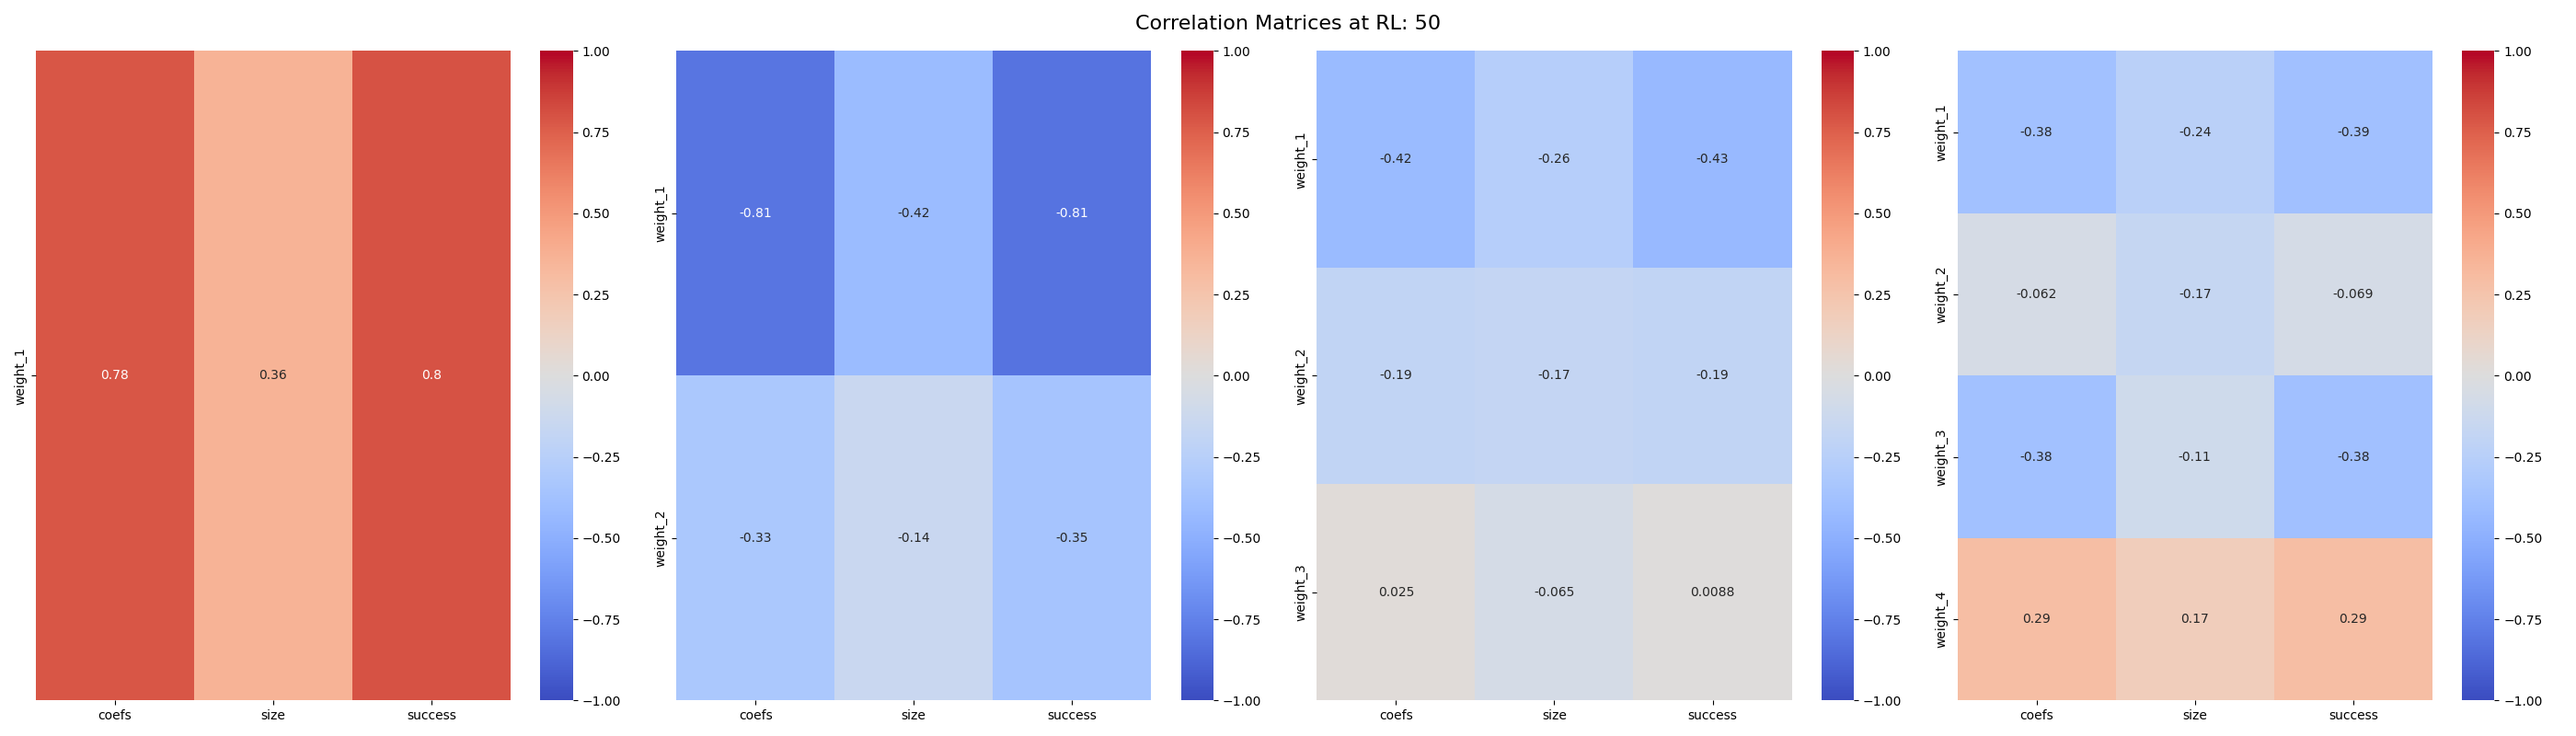
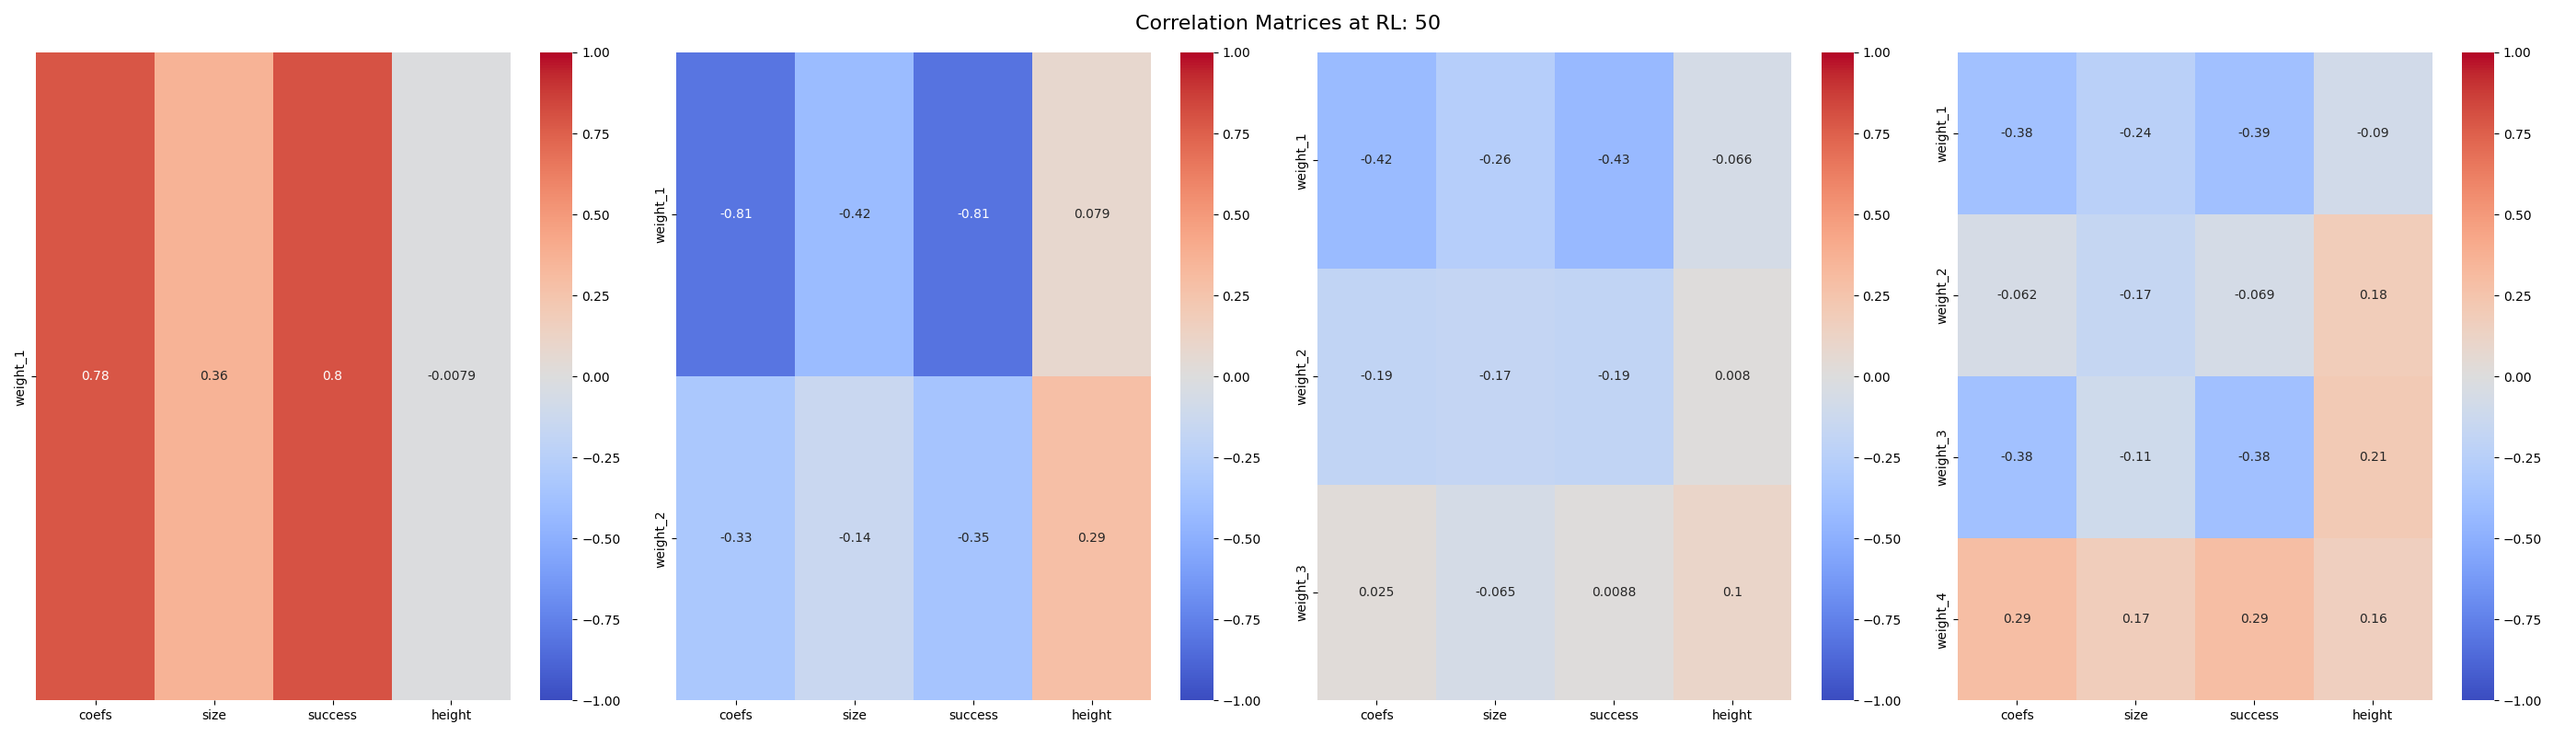
Added Height to Embeddings

diff --git a/climber_embeddings.py b/climber_embeddings.py
@@ -12,8 +12,8 @@ def create_climbers_df(df, lr_model, pmf_model):
     climbers_df = (
         df
         .groupby('Name')
-        .agg({'Status': 'mean', 'Problem_ID': 'size'})
-        .rename(columns = {'Status': "success", 'Problem_ID': 'size'})
+        .agg({'Status': 'mean', 'Problem_ID': 'size', 'Height': 'mean'})
+        .rename(columns = {'Status': "success", 'Problem_ID': 'size', 'Height': 'height'})
     )
 
     lr_climber_names = lr_model.climber_vocab.get_itos()[1:]
@@ -52,7 +52,7 @@ def create_correlation_matrices(dfs, pca=False):
 
             prefix = 'PC' if pca else 'weight'
             rows = [row for row in df.columns if row.startswith(prefix)]
-            cols = ['coefs', 'size', 'success']
+            cols = ['coefs', 'size', 'success', 'height']
             df_corr = df.corr().loc[rows, cols]
             sns.heatmap(df_corr, annot=True, cmap='coolwarm', center=0, vmin=-1, vmax=1, ax=axs[num_factors-1])
 
@@ -85,6 +85,9 @@ if __name__ == '__main__':
 
     df = pd.read_csv('data/men_data.csv')
 
+    heights = pd.read_csv('data/climbers_heights.csv', index_col=0)
+    df = df.merge(heights, on='Name', how='left')
+
     climber_dfs = {}
     for replacement_level in REPLACEMENT_LEVELS:
         with open(f"models/lr/model_rl_{replacement_level}_full_data.pkl", 'rb') as f:
@@ -98,7 +101,7 @@ if __name__ == '__main__':
             climber_dfs[f'{replacement_level}_{num_factors}'] = climbers_df
 
             if num_factors > 1:
-                for column in ['success']:
+                for column in ['success', 'height']:
                     p = create_pc_scatter_plot(climbers_df, column)
                     p.save(f'results/climber_embeddings/scatter_plot/{column}/PCA_{replacement_level}_{num_factors}.png')
 
